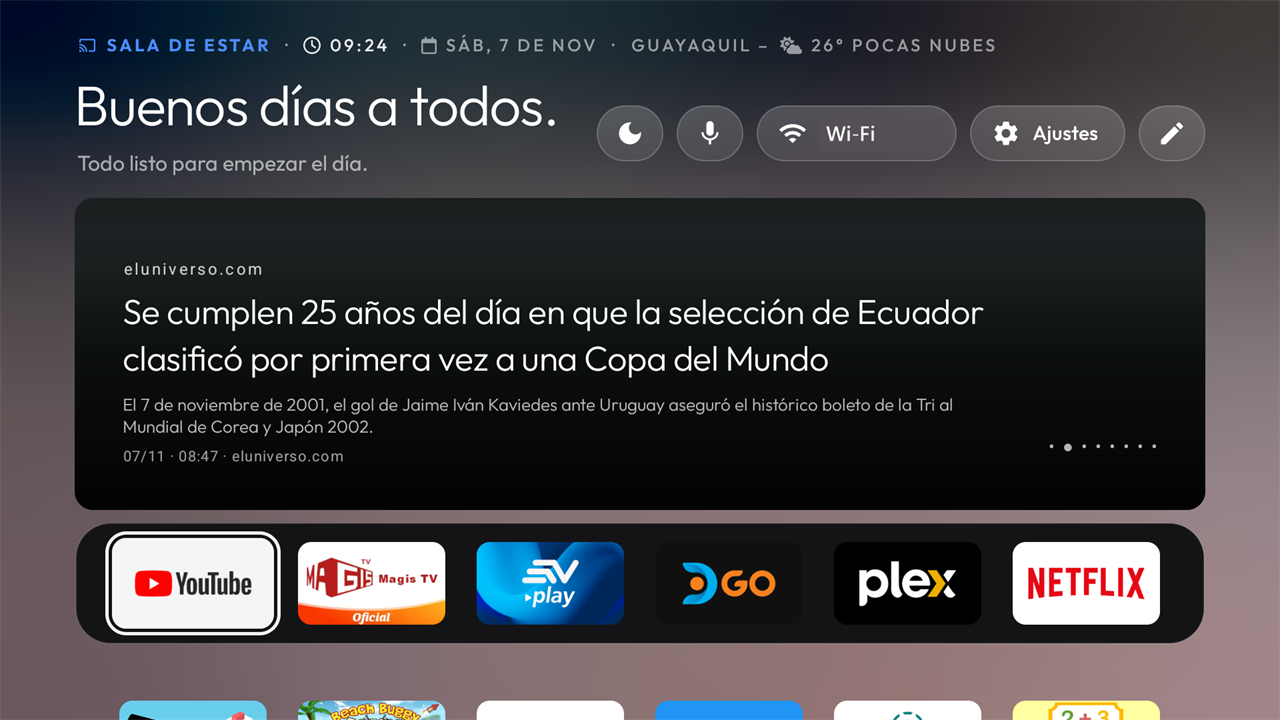
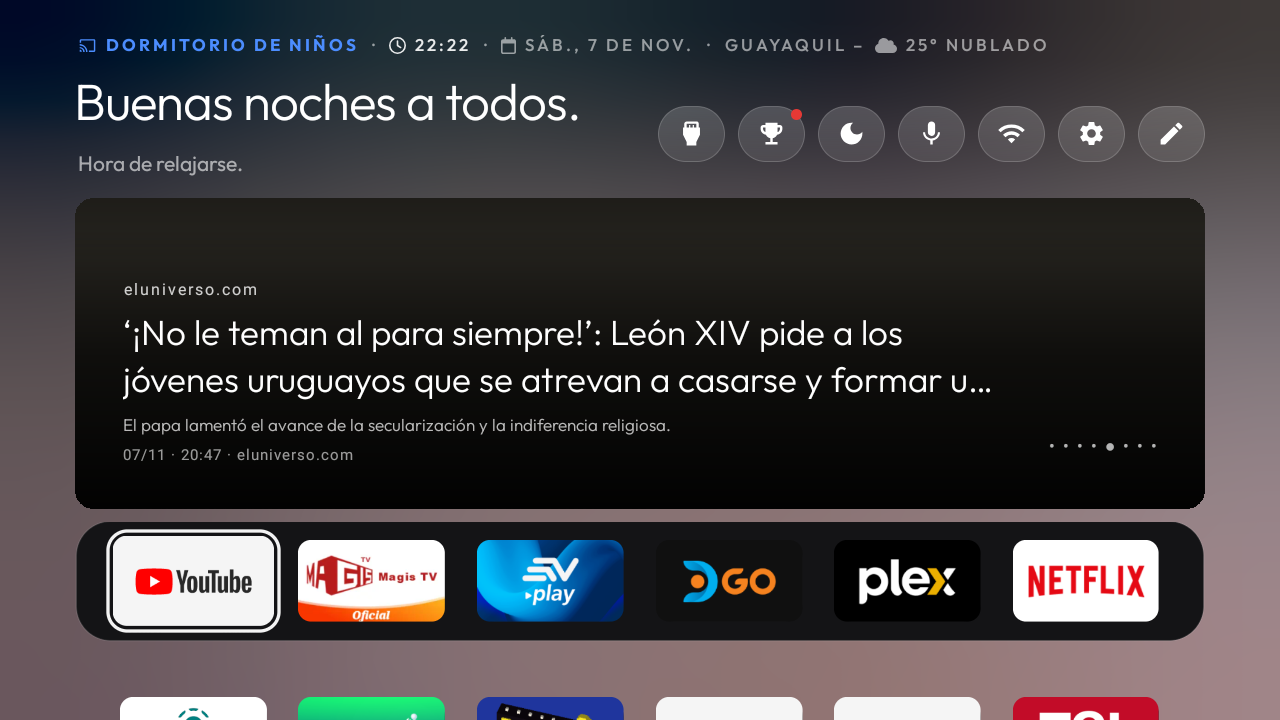
Capturas nuevas y pruebas en Android TV 9
Inicio, cabecera, marcadores, panel de opciones, entradas y ajustes de
noticias de la version 2026.11.07.009, tomadas en un televisor con Android
TV 9 (sin fotos de noticias ni nombre de la red). El README y los
problemas conocidos indican que se ha probado en Chromecast con Google TV
y en Android TV 9.

diff --git a/README.md b/README.md
@@ -9,21 +9,24 @@ En Google TV sustituye a Google TV Home como pantalla de inicio sin desactivarlo
 instalado como mecanismo de recuperación y conserva su panel de ajustes rápidos. En Android TV es una
 app de inicio normal.
 
-> Versión **2026.11.07.009**. Su base se ha usado a diario en dos Chromecast
-> con Google TV (Android 14) y en un televisor TCL con Android TV 9; esta versión se ha probado en un
-> Chromecast con Google TV, aún no en Android TV 9. Consulta [docs/KNOWN-ISSUES.md](docs/KNOWN-ISSUES.md) antes de instalarlo.
+> Versión **2026.11.07.009**. Probada en Chromecast con Google TV (Android 14) y en un televisor con
+> Android TV 9. Consulta [docs/KNOWN-ISSUES.md](docs/KNOWN-ISSUES.md) antes de instalarlo.
 >
 > Las versiones siguen la fecha: `AAAA.MM.DD.NNN` (versionCode `AAMMDDNNN`).
 
 ## Capturas
 
-![Pantalla de inicio con la fila de noticias y el dock](docs/screenshots/inicio.png)
+![Pantalla de inicio: cabecera, barra de iconos, noticias y dock](docs/screenshots/inicio.png)
 
 ![Cabecera: dispositivo · hora · fecha · ciudad – clima](docs/screenshots/cabecera.png)
 
-![Ajustes de noticias con un feed RSS](docs/screenshots/noticias.png)
+![Marcadores: LigaPro, Copa Libertadores y Eliminatorias con logos, escudos y banderas](docs/screenshots/marcadores.png)
 
-![Menú de entradas (Android TV) con HDMI, AV y TV en vivo](docs/screenshots/entradas.png)
+| Panel de opciones | Menú de entradas (Android TV) |
+|---|---|
+| ![Panel de opciones: Perfil, Apariencia, Clima, Noticias, Marcadores y Tarjetas de entrada](docs/screenshots/panel.png) | ![Menú de entradas con HDMI, AV y TV en vivo](docs/screenshots/entradas.png) |
+
+![Ajustes de noticias con un feed RSS](docs/screenshots/noticias.png)
 
 ## Qué hace
 
@@ -40,7 +43,7 @@ app de inicio normal.
 | Marcadores en vivo | Botón con icono de trofeo (punto rojo si hay algo en vivo): hasta 10 seguimientos (ligas, un equipo de una liga, selecciones de fútbol por confederación o una selección, NBA, NFL, MLB, NHL, F1) elegidos en Opciones > Marcadores, con el logo de cada competición o confederación, el escudo de cada equipo y la bandera de cada piloto. Datos de ESPN; API-Football con tu propia clave si ESPN no responde; OpenF1 para el orden en vivo de la F1 cuando responde. Desactivado por defecto |
 | Barra superior | Todos los botones son iconos del mismo tamaño: contenido (entradas, marcadores, noticias) y después sistema (voz, Wi-Fi, Ajustes, opciones); el nombre de la red ya no se imprime |
 | Dock y apps | Mantener OK sobre un icono > Mover; todo el dock se mueve como una fila |
-| Entradas | Solo si el dispositivo tiene entradas: HDMI, AV y la app de TV del fabricante (TCL) |
+| Entradas | Solo si el dispositivo tiene entradas: HDMI, AV y la app de TV del fabricante (lista `live_tv_packages` en `config.xml`) |
 | Actualizaciones | Panel del lápiz > Actualizaciones > **Buscar actualizaciones ahora**: busca la última release de GitHub, la descarga, comprueba su SHA-256 y abre el instalador de Android. Con la búsqueda automática activada (por defecto) avisa al volver al Inicio, como mucho cada 12 horas |
 | Recuperación | Panel del lápiz > Recuperación: reactivar el inicio original, abrir Ajustes, restaurar los valores del Inicio (pide confirmación) y cerrar |
 

diff --git a/docs/KNOWN-ISSUES.md b/docs/KNOWN-ISSUES.md
@@ -1,9 +1,9 @@
 # Problemas conocidos
 
-La base de Pixora TV se ha usado en dos Chromecast con Google TV (Android 14) y en un televisor TCL con
-Android TV 9. Sus funciones (instalación, arranque tras reiniciar, panel de opciones, noticias y
-marcadores, con logos y selecciones) se han probado en un Chromecast con Google TV con la versión
-2026.11.07.009; el actualizador y Android TV 9 aún no se han probado.
+La versión 2026.11.07.009 se ha probado en Chromecast con Google TV (Android 14): instalación, arranque
+tras reiniciar, panel de opciones, noticias y marcadores con logos y selecciones. En un televisor con
+Android TV 9 se han probado la instalación como app de inicio, el panel de opciones, el menú de
+entradas, las noticias y los marcadores. Aún no se ha probado la actualización desde la propia TV.
 
 ## Google TV (Chromecast)
 
@@ -35,7 +35,7 @@ marcadores, con logos y selecciones) se han probado en un Chromecast con Google 
   así que Pixora TV no los necesita y los apaga aunque el servicio esté activado.
 - **Entradas.** Algunos televisores con Android TV 9 no anuncian sus entradas de la forma estándar;
   Pixora TV usa entonces la app de TV del fabricante si está en la lista `live_tv_packages`
-  (`launcher/app/src/main/res/values/config.xml`; hoy, la de TCL).
+  (`launcher/app/src/main/res/values/config.xml`).
 
 ## Ambos
 
